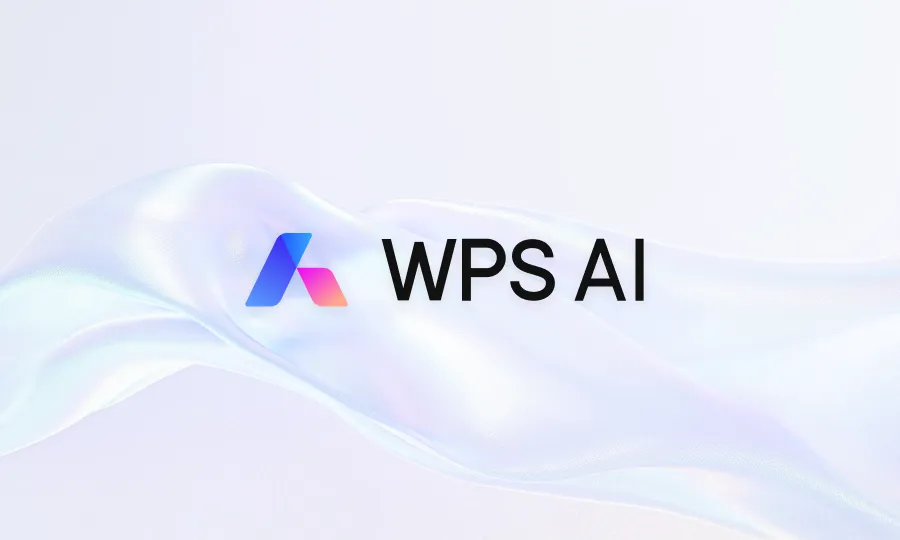
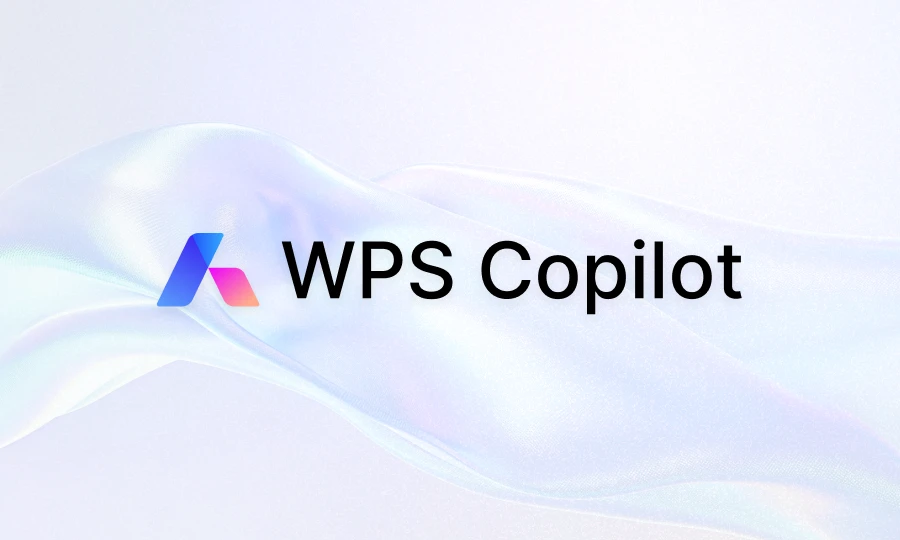
chore: push latest local changes

diff --git a/data/projects.tsx b/data/projects.tsx
@@ -7,8 +7,8 @@ const projects = [
   {
     projectName: 'wps-ai',
     coverImage: imgWpsAi,
-    projectTitle: 'WPS AI 2.0',
-    subtitle: 'WPS AI 2.0 设计范式升级',
+    projectTitle: 'WPS Copilot',
+    subtitle: 'WPS Copilot 产品设计',
     tags: ['AI', 'UX Design', 'Product Design','2023-2025'],
   },
 
